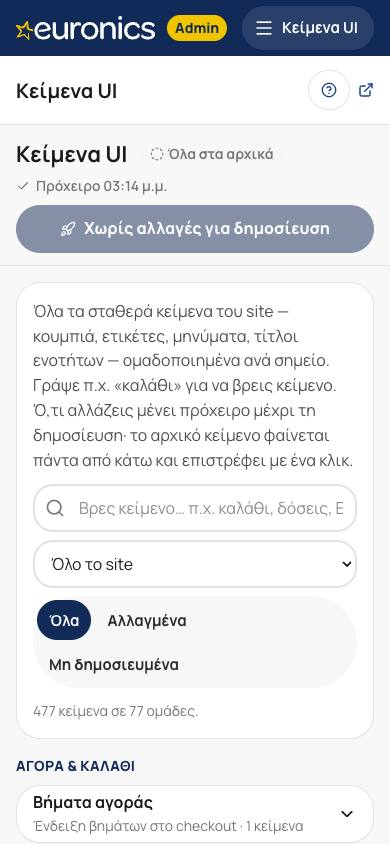
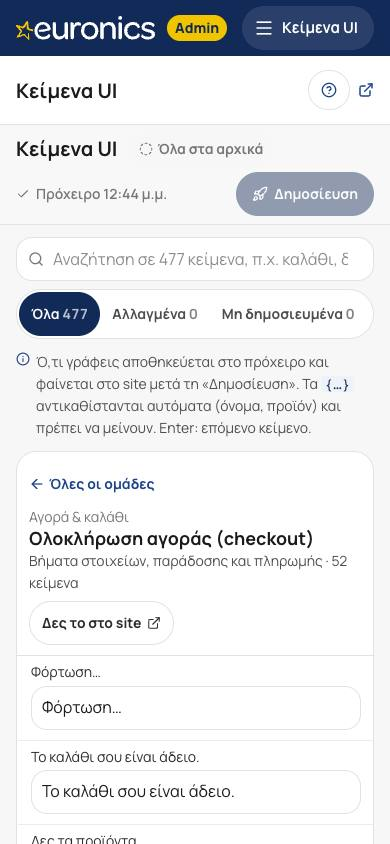
Κείμενα UI: νέος σχεδιασμός (ui-ux-pro-max) — αντί για 77 ακορντεόν σε μία στήλη (~5.800 px) και πεδία πλήρους πλάτους: ομάδες ανά σημείο του site αριστερά (φίλτρο, πλήθη, ένδειξη αλλαγών στο site/πρόχειρο) και πυκνός πίνακας δεξιά «Αρχικό | Στο site | Κατάσταση» με επεξεργασία επί τόπου, τονισμένα 

Changed region(s): [[0.0308, 0.154, 0.9538, 1.0], [0.8615, 0.6469, 0.9231, 0.6777], [0.8615, 0.5853, 0.9231, 0.6161]]

diff --git a/components/admin/cms/CopyEditor.tsx b/components/admin/cms/CopyEditor.tsx
@@ -1,11 +1,11 @@
 "use client";
 
-import { useCallback, useDeferredValue, useEffect, useMemo, useRef, useState, useTransition } from "react";
+import { Fragment, useCallback, useDeferredValue, useEffect, useMemo, useRef, useState, useTransition, type ReactNode } from "react";
 import { useRouter } from "next/navigation";
-import { Check, ChevronDown, CircleAlert, ExternalLink, Info, Loader2, Rocket, RotateCcw, Search, Undo2, X } from "lucide-react";
+import { ArrowLeft, Check, CircleAlert, ExternalLink, Info, Loader2, Rocket, RotateCcw, Search, Undo2, X } from "lucide-react";
 import { placeholdersOf, type CopyOverrides } from "@/lib/cms/copy";
 import { publishCopyAction, revertCopyAction, saveCopyAction, type CopyIssue } from "@/app/admin/(shell)/cms/copy/actions";
-import { ResultBanner, StatusPill, inputCls } from "@/components/admin/settings/ui";
+import { ResultBanner, StatusPill } from "@/components/admin/settings/ui";
 
 export type CopyGroup = { ns: string; label: string; area: string; where: string; href?: string; entries: { key: string; def: string }[] };
 
@@ -13,21 +13,25 @@ const norm = (s: string) => s.toLocaleLowerCase("el-GR").normalize("NFD").replac
 const count = (o: CopyOverrides) => Object.values(o).reduce((a, x) => a + Object.keys(x).length, 0);
 const same = (a: CopyOverrides, b: CopyOverrides) => { const k = (o: CopyOverrides) => Object.entries(o).flatMap(([ns, v]) => Object.entries(v).map(([key, val]) => `${ns}|${key}|${val}`)).sort().join("\n"); return k(a) === k(b); };
 type Filter = "all" | "changed" | "unpublished";
+const field = "w-full min-w-0 rounded-lg border border-eu-line bg-white px-2.5 min-h-11 md:min-h-9 text-[length:var(--fs-14)] outline-none focus:border-eu-blue focus-visible:ring-2 focus-visible:ring-eu-blue/20";
+/** «καλάθι {name}» → το {name} τονισμένο: φαίνεται τι αντικαθίσταται αυτόματα. */
+const withTokens = (s: string): ReactNode => s.split(/(\{[^}]+\})/g).map((p, i) => (/^\{[^}]+\}$/.test(p) ? <code key={i} className="rounded bg-eu-chip text-eu-navy px-1 text-[length:var(--fs-12)]">{p}</code> : <Fragment key={i}>{p}</Fragment>));
 
 /**
- * Κείμενα UI: όλα τα σταθερά κείμενα της βιτρίνας, ομαδοποιημένα ανά σημείο του site. Αναζήτηση σε κείμενο, όνομα ή
- * ομάδα· αλλαγή με αυτόματη αποθήκευση στο πρόχειρο· έλεγχος ότι μένουν τα {placeholders}· επαναφορά στο αρχικό·
- * δημοσίευση όλων μαζί. Αποθηκεύονται μόνο οι αλλαγμένες τιμές.
+ * Κείμενα UI (ui-ux-pro-max: master-detail, πυκνός πίνακας, επεξεργασία επί τόπου). Αριστερά οι ομάδες ανά σημείο του
+ * site με πλήθη και ένδειξη αλλαγών· δεξιά τα κείμενα της ομάδας σε δύο στήλες: το αρχικό (με τα {…} τονισμένα και το
+ * όνομα του κειμένου) και αυτό που βλέπει ο πελάτης, που αλλάζει επί τόπου. Η αναζήτηση ψάχνει σε όλα τα κείμενα.
+ * Αυτόματη αποθήκευση στο πρόχειρο, έλεγχος ότι μένουν τα {placeholders}, επαναφορά ανά κείμενο, δημοσίευση όλων μαζί.
  */
-export function CopyEditor({ groups, draft: initDraft, published: initPub, savedAt: initSaved }: { groups: CopyGroup[]; draft: CopyOverrides; published: CopyOverrides; savedAt: string | null }) {
+export function CopyEditor({ groups, draft: initDraft, published: initPub, savedAt: initSaved, initialGroup }: { groups: CopyGroup[]; draft: CopyOverrides; published: CopyOverrides; savedAt: string | null; initialGroup?: string | null }) {
   const router = useRouter();
   const [ov, setOv] = useState<CopyOverrides>(initDraft);
   const [pub, setPub] = useState<CopyOverrides>(initPub);
   const [q, setQ] = useState("");
   const dq = norm(useDeferredValue(q).trim());
   const [filter, setFilter] = useState<Filter>("all");
-  const [area, setArea] = useState("");
-  const [open, setOpen] = useState<Set<string>>(new Set());
+  const [nav, setNav] = useState("");
+  const [sel, setSel] = useState<string | null>(initialGroup && groups.some((g) => g.ns === initialGroup) ? initialGroup : null);
   const [save, setSave] = useState<"idle" | "pending" | "saving" | "error">("idle");
   const [savedAt, setSavedAt] = useState(initSaved);
   const [issues, setIssues] = useState<CopyIssue[]>([]);
@@ -35,7 +39,9 @@ export function CopyEditor({ groups, draft: initDraft, published: initPub, saved
   const [busy, start] = useTransition();
   const latest = useRef(ov);
   const saved = useRef(initDraft);
+  const listRef = useRef<HTMLDivElement>(null);
 
+  // αυτόματη αποθήκευση στο πρόχειρο (1″ μετά την τελευταία αλλαγή)
   const flush = useCallback(async () => {
     setSave("saving");
     const r = await saveCopyAction(latest.current).catch(() => null);
@@ -56,6 +62,8 @@ export function CopyEditor({ groups, draft: initDraft, published: initPub, saved
     window.addEventListener("beforeunload", h);
     return () => window.removeEventListener("beforeunload", h);
   }, [save]);
+  // η ομάδα στη διεύθυνση (?g=) — ο σύνδεσμος ανοίγει την ίδια ομάδα
+  useEffect(() => { const u = new URL(location.href); if (sel) u.searchParams.set("g", sel); else u.searchParams.delete("g"); history.replaceState(null, "", u); }, [sel]);
 
   const setVal = (ns: string, key: string, def: string, v: string) => setOv((o) => {
     const n = { ...o, [ns]: { ...(o[ns] ?? {}) } };
@@ -65,34 +73,44 @@ export function CopyEditor({ groups, draft: initDraft, published: initPub, saved
   });
   const pending = !same(ov, pub);
   const issueOf = (ns: string, key: string) => issues.find((i) => i.ns === ns && i.key === key)?.msg;
+  const badOf = (g: CopyGroup, e: { key: string; def: string }) => {
+    const cur = ov[g.ns]?.[e.key] ?? e.def, ph = placeholdersOf(e.def);
+    return issueOf(g.ns, e.key) ?? (ph.join(" ") !== placeholdersOf(cur).join(" ") ? `Πρέπει να περιέχει ακριβώς: ${ph.join(" ") || "κανένα {…}"}` : !cur.trim() ? "Κενό κείμενο: γράψε κάτι ή πάτα επαναφορά." : null);
+  };
+  const isChanged = (ns: string, key: string) => !!ov[ns] && key in ov[ns];
+  const isUnpub = (ns: string, key: string) => (ov[ns]?.[key] ?? null) !== (pub[ns]?.[key] ?? null);
 
-  /** Λάθη που φαίνονται ήδη στον browser (κενό, λάθος {…}) — μαζί με όσα επέστρεψε ο server. */
-  const badCount = useMemo(() => {
-    const local = groups.flatMap((g) => g.entries.filter((e) => {
-      const v = ov[g.ns]?.[e.key];
-      return v !== undefined && (!v.trim() || placeholdersOf(v).join(" ") !== placeholdersOf(e.def).join(" "));
-    }).map((e) => `${g.ns}.${e.key}`));
-    return new Set([...local, ...issues.map((i) => `${i.ns}.${i.key}`)]).size;
-  }, [groups, ov, issues]);
-  const anyPh = useMemo(() => groups.some((g) => g.entries.some((e) => placeholdersOf(e.def).length)), [groups]);
-  const areas = useMemo(() => [...new Set(groups.map((g) => g.area))], [groups]);
-  const view = useMemo(() => groups
-    .filter((g) => !area || g.area === area)
-    .map((g) => ({ ...g, entries: g.entries.filter((e) => {
-      const cur = ov[g.ns]?.[e.key] ?? e.def;
-      if (filter === "changed" && !(g.ns in ov && e.key in ov[g.ns])) return false;
-      if (filter === "unpublished" && (ov[g.ns]?.[e.key] ?? null) === (pub[g.ns]?.[e.key] ?? null)) return false;
-      if (!dq) return true;
-      return norm(`${cur} ${e.def} ${e.key} ${g.label} ${g.where}`).includes(dq);
-    }) }))
-    .filter((g) => g.entries.length), [groups, area, filter, dq, ov, pub]);
-  const total = view.reduce((a, g) => a + g.entries.length, 0);
-  const expanded = (ns: string) => open.has(ns) || !!dq || filter !== "all";
+  const badCount = useMemo(() => new Set([
+    ...groups.flatMap((g) => g.entries.filter((e) => { const v = ov[g.ns]?.[e.key]; return v !== undefined && (!v.trim() || placeholdersOf(v).join(" ") !== placeholdersOf(e.def).join(" ")); }).map((e) => `${g.ns}.${e.key}`)),
+    ...issues.map((i) => `${i.ns}.${i.key}`),
+  ]).size, [groups, ov, issues]);
+  const counts = useMemo(() => ({ all: groups.reduce((a, g) => a + g.entries.length, 0), changed: count(ov), unpublished: groups.reduce((a, g) => a + g.entries.filter((e) => isUnpub(g.ns, e.key)).length, 0) }), [groups, ov, pub]); // eslint-disable-line react-hooks/exhaustive-deps
+  const pass = useCallback((g: CopyGroup, e: { key: string; def: string }) => (filter === "changed" ? isChanged(g.ns, e.key) : filter === "unpublished" ? isUnpub(g.ns, e.key) : true), [filter, ov, pub]); // eslint-disable-line react-hooks/exhaustive-deps
+
+  // αριστερή στήλη: περιοχές → ομάδες (με το φίλτρο της λίστας ομάδων και το φίλτρο κατάστασης)
+  const navT = norm(nav.trim());
+  const areas = useMemo(() => {
+    const out: { area: string; groups: (CopyGroup & { shown: number; changed: number; unpub: number })[] }[] = [];
+    for (const g of groups) {
+      if (navT && !norm(`${g.label} ${g.where} ${g.area}`).includes(navT)) continue;
+      const shown = g.entries.filter((e) => pass(g, e)).length;
+      if (!shown) continue;
+      const changed = g.entries.filter((e) => isChanged(g.ns, e.key)).length, unpub = g.entries.filter((e) => isUnpub(g.ns, e.key)).length;
+      let a = out.find((x) => x.area === g.area); if (!a) { a = { area: g.area, groups: [] }; out.push(a); }
+      a.groups.push({ ...g, shown, changed, unpub });
+    }
+    return out;
+  }, [groups, navT, pass]); // eslint-disable-line react-hooks/exhaustive-deps
+  const current = sel ? groups.find((g) => g.ns === sel) ?? null : null;
+
+  // δεξιά: αναζήτηση σε όλα ή η επιλεγμένη ομάδα
+  const results = useMemo(() => dq ? groups.map((g) => ({ g, entries: g.entries.filter((e) => pass(g, e) && norm(`${ov[g.ns]?.[e.key] ?? e.def} ${e.def} ${e.key} ${g.label}`).includes(dq)) })).filter((x) => x.entries.length) : [], [dq, groups, ov, pass]);
+  const resultCount = results.reduce((a, x) => a + x.entries.length, 0);
 
   const publish = () => {
     if (!window.confirm(`Δημοσίευση ${count(ov)} αλλαγμένων κειμένων; Θα φαίνονται αμέσως στο site.`)) return;
     start(async () => {
-      if (save !== "idle" && !(await flush())) { setResult({ ok: false, message: "Η αποθήκευση απέτυχε — δοκίμασε ξανά." }); return; }
+      if (save !== "idle" && !(await flush())) { setResult({ ok: false, message: "Η αποθήκευση απέτυχε. Δοκίμασε ξανά." }); return; }
       const r = await publishCopyAction();
       setResult(r);
       if (r.issues) setIssues(r.issues);
@@ -100,91 +118,123 @@ export function CopyEditor({ groups, draft: initDraft, published: initPub, saved
     });
   };
   const revert = () => { if (!window.confirm("Να χαθούν οι αλλαγές που δεν δημοσιεύτηκαν;")) return; start(async () => { setResult(await revertCopyAction()); setOv(pub); saved.current = pub; }); };
+  /** Enter: πήγαινε στο επόμενο κείμενο (στα μεγάλα κείμενα: Ctrl/⌘ + Enter). */
+  const next = (el: HTMLElement) => { const all = [...(listRef.current?.querySelectorAll<HTMLElement>("[data-copy-input]") ?? [])]; all[all.indexOf(el) + 1]?.focus(); };
+
+  const row = (g: CopyGroup, e: { key: string; def: string }) => {
+    const cur = ov[g.ns]?.[e.key] ?? e.def;
+    const changed = cur !== e.def, unpub = isUnpub(g.ns, e.key), bad = badOf(g, e);
+    const long = e.def.length > 48 || cur.length > 48; // ό,τι δεν χωράει σε μία γραμμή γίνεται πολυγραμμικό, για να φαίνεται ολόκληρο
+    const common = {
+      value: cur, "data-copy-input": "", "aria-label": `${g.label}: ${e.def.slice(0, 50)}`, "aria-invalid": !!bad,
+      onChange: (ev: React.ChangeEvent<HTMLInputElement | HTMLTextAreaElement>) => setVal(g.ns, e.key, e.def, ev.target.value),
+      className: `${field} ${bad ? "border-eu-red bg-eu-red/5" : changed ? "border-eu-blue/50 bg-eu-blue/[0.04]" : ""}`,
+    };
+    return (
+      <li key={`${g.ns}.${e.key}`} className={`grid gap-x-3 gap-y-1 px-3 py-1.5 @3xl:grid-cols-[minmax(0,1fr)_minmax(0,1.25fr)_6.5rem] items-start ${changed ? "border-l-2 border-l-eu-blue" : "border-l-2 border-l-transparent"}`}>
+        <div className="grid gap-0.5 min-w-0 @3xl:pt-1.5">
+          <span title={`Κλειδί: ${g.ns}.${e.key}`} className="text-eu-ink-2 text-[length:var(--fs-13)] leading-snug break-words">{withTokens(e.def)}</span>
+        </div>
+        <div className="grid gap-1 min-w-0">
+          {long
+            ? <textarea {...common} rows={Math.min(6, Math.ceil(Math.max(e.def.length, cur.length) / 55))} onKeyDown={(ev) => { if (ev.key === "Enter" && (ev.metaKey || ev.ctrlKey)) { ev.preventDefault(); next(ev.currentTarget); } }} className={`${common.className} py-1.5 leading-relaxed resize-y`} />
+            : <input {...common} type="text" enterKeyHint="next" onKeyDown={(ev) => { if (ev.key === "Enter") { ev.preventDefault(); next(ev.currentTarget); } }} />}
+          {bad && <span role="alert" className="inline-flex items-start gap-1 text-eu-red font-semibold text-[length:var(--fs-12)]"><CircleAlert className="size-3.5 mt-px shrink-0" aria-hidden />{bad}</span>}
+        </div>
+        <div className="flex @3xl:flex-col @3xl:items-end items-center gap-1.5 @3xl:pt-1.5">
+          {changed ? <>
+            <span className={`rounded-full px-2 py-px font-bold text-[length:var(--fs-12)] ${unpub ? "bg-eu-amber/15 text-eu-ink-2" : "bg-eu-green/12 text-eu-green"}`}>{unpub ? "Πρόχειρο" : "Στο site"}</span>
+            <button type="button" onClick={() => setVal(g.ns, e.key, e.def, e.def)} aria-label={`Επαναφορά στο αρχικό: ${e.def.slice(0, 40)}`} className="inline-flex items-center gap-1 rounded-full px-2 min-h-11 md:min-h-7 font-bold text-eu-ink-3 text-[length:var(--fs-12)] hover:bg-eu-surface hover:text-eu-navy"><RotateCcw className="size-3.5" aria-hidden /> Αρχικό</button>
+          </> : unpub ? <span className="rounded-full px-2 py-px font-bold text-[length:var(--fs-12)] bg-eu-amber/15 text-eu-ink-2" title="Στο site είναι ακόμη αλλαγμένο· θα επιστρέψει στο αρχικό με τη δημοσίευση">Επαναφορά · πρόχειρο</span> : null}
+        </div>
+      </li>
+    );
+  };
+
+  const tableHead = <div className="hidden @3xl:grid grid-cols-[minmax(0,1fr)_minmax(0,1.25fr)_6.5rem] gap-x-3 px-3 py-1.5 bg-eu-surface/70 border-b border-eu-line text-eu-ink-3 font-bold text-[length:var(--fs-12)]"><span>Αρχικό κείμενο</span><span>Στο site</span><span className="text-right">Κατάσταση</span></div>;
 
   return (
-    <div className="grid gap-4 min-w-0">
-      <div className="sticky top-0 z-30 -mx-4 @md:-mx-6 -mt-4 @md:-mt-6 px-4 @md:px-6 py-3 bg-eu-surface/95 backdrop-blur border-b border-eu-line grid gap-2">
-        <div className="flex flex-wrap items-center gap-x-3 gap-y-1">
-          <h2 className="m-0 font-heading font-bold text-eu-ink text-[length:var(--fs-22)]">Κείμενα UI</h2>
-          <StatusPill status={pending ? "incomplete" : count(pub) ? "live" : "off"} text={pending ? "Αλλαγές στο πρόχειρο" : count(pub) ? `${count(pub)} αλλαγμένα κείμενα στο site` : "Όλα στα αρχικά"} />
-          <span role="status" className={`inline-flex items-center gap-1.5 text-[length:var(--fs-13)] font-semibold ${save === "error" ? "text-eu-red" : "text-eu-muted"}`}>{save === "saving" ? <Loader2 className="size-3.5 animate-spin" aria-hidden /> : save === "idle" ? <Check className="size-3.5" aria-hidden /> : null}{save === "saving" ? "Αποθήκευση…" : save === "pending" ? "Αλλαγές…" : save === "error" ? "Η αποθήκευση απέτυχε" : savedAt ? `Πρόχειρο ${new Date(savedAt).toLocaleTimeString("el-GR", { hour: "2-digit", minute: "2-digit" })}` : ""}</span>
+    <div className="@container grid gap-3 min-w-0">
+      {/* λεπτή σταθερή κεφαλίδα: κατάσταση, αποθήκευση, δημοσίευση */}
+      <div data-help="copy.header" className="sticky top-0 z-30 -mx-4 @md:-mx-6 -mt-4 @md:-mt-6 px-4 @md:px-6 py-2 bg-eu-surface/95 backdrop-blur border-b border-eu-line flex flex-wrap items-center gap-x-3 gap-y-2">
+        <h2 className="m-0 font-heading font-bold text-eu-ink text-[length:var(--fs-20)]">Κείμενα UI</h2>
+        <StatusPill status={pending ? "incomplete" : count(pub) ? "live" : "off"} text={pending ? `${counts.unpublished} ${counts.unpublished === 1 ? "αλλαγή" : "αλλαγές"} στο πρόχειρο` : count(pub) ? `${count(pub)} ${count(pub) === 1 ? "αλλαγμένο" : "αλλαγμένα"} στο site` : "Όλα στα αρχικά"} />
+        <span role="status" className={`inline-flex items-center gap-1.5 text-[length:var(--fs-12)] font-semibold ${save === "error" ? "text-eu-red" : "text-eu-muted"}`}>{save === "saving" ? <Loader2 className="size-3.5 animate-spin" aria-hidden /> : save === "idle" ? <Check className="size-3.5" aria-hidden /> : null}{save === "saving" ? "Αποθήκευση…" : save === "pending" ? "Αλλαγές…" : save === "error" ? "Η αποθήκευση απέτυχε" : savedAt ? `Πρόχειρο ${new Date(savedAt).toLocaleTimeString("el-GR", { hour: "2-digit", minute: "2-digit" })}` : ""}</span>
+        <div className="ml-auto flex flex-wrap items-center gap-1.5">
+          {badCount > 0 && <span className="inline-flex items-center gap-1 text-eu-red font-bold text-[length:var(--fs-13)]"><CircleAlert className="size-4" aria-hidden />{badCount} για διόρθωση</span>}
+          {pending && <button type="button" onClick={revert} disabled={busy} className="inline-flex items-center gap-1.5 rounded-full border border-eu-line bg-white px-3 min-h-11 md:min-h-9 font-bold text-[length:var(--fs-13)] hover:border-eu-navy"><Undo2 className="size-4" aria-hidden /> Ακύρωση</button>}
+          <button type="button" onClick={publish} disabled={busy || !pending || badCount > 0} className="inline-flex items-center gap-1.5 rounded-full bg-eu-navy text-white font-bold text-[length:var(--fs-13)] px-4 min-h-11 md:min-h-9 hover:bg-eu-blue disabled:opacity-45">{busy ? <Loader2 className="size-4 animate-spin" aria-hidden /> : <Rocket className="size-4" aria-hidden />}{badCount ? "Διόρθωσε πρώτα" : pending ? `Δημοσίευση (${counts.unpublished})` : "Δημοσίευση"}</button>
         </div>
-        <div className="flex flex-wrap items-center gap-2">
-          <button type="button" onClick={publish} disabled={busy || !pending || badCount > 0} className="inline-flex items-center justify-center gap-2 rounded-full bg-eu-navy text-white font-extrabold text-[length:var(--fs-15)] px-5 min-h-12 hover:bg-eu-blue disabled:opacity-50 flex-1 @md:flex-none">{busy ? <Loader2 className="size-4 animate-spin" aria-hidden /> : <Rocket className="size-4" aria-hidden />}{!pending ? "Χωρίς αλλαγές για δημοσίευση" : badCount ? "Διόρθωσε πρώτα τα σημειωμένα" : "Δημοσίευση αλλαγών"}</button>
-          {pending && <button type="button" onClick={revert} disabled={busy} className="inline-flex items-center gap-1.5 rounded-full border-2 border-eu-line px-4 min-h-12 font-bold text-[length:var(--fs-14)] hover:border-eu-navy"><Undo2 className="size-4" aria-hidden /> Ακύρωση αλλαγών</button>}
-          {badCount > 0 && <span className="inline-flex items-center gap-1.5 text-eu-red font-bold text-[length:var(--fs-14)]"><CircleAlert className="size-4" aria-hidden />{badCount} για διόρθωση</span>}
-        </div>
-        {result && <div className="relative"><ResultBanner ok={result.ok}><span className="block pr-8">{result.message}</span></ResultBanner><button type="button" onClick={() => setResult(null)} aria-label="Κλείσιμο" className="absolute top-1 right-1 size-10 grid place-items-center rounded-full text-eu-muted hover:bg-white/60"><X className="size-4" aria-hidden /></button></div>}
+        {result && <div className="basis-full relative"><ResultBanner ok={result.ok}><span className="block pr-8">{result.message}</span></ResultBanner><button type="button" onClick={() => setResult(null)} aria-label="Κλείσιμο" className="absolute top-1 right-1 size-10 grid place-items-center rounded-full text-eu-muted hover:bg-white/60"><X className="size-4" aria-hidden /></button></div>}
       </div>
 
-      <section className="rounded-2xl bg-white border border-eu-line p-4 @md:p-5 grid gap-3">
-        <p className="m-0 text-eu-ink-3 text-[length:var(--fs-15)] max-w-[80ch]">Όλα τα σταθερά κείμενα του site — κουμπιά, ετικέτες, μηνύματα, τίτλοι ενοτήτων — ομαδοποιημένα ανά σημείο. Γράψε π.χ. «καλάθι» για να βρεις κείμενο. Ό,τι αλλάζεις μένει πρόχειρο μέχρι τη δημοσίευση· το αρχικό κείμενο φαίνεται πάντα από κάτω και επιστρέφει με ένα κλικ.</p>
-        {anyPh && <p className="m-0 inline-flex items-start gap-2 text-eu-ink-2 text-[length:var(--fs-14)]"><Info className="size-4 mt-0.5 shrink-0 text-eu-blue" aria-hidden /><span>Λέξεις μέσα σε άγκιστρα, όπως <code className="rounded bg-eu-surface px-1">{"{name}"}</code>, αντικαθίστανται αυτόματα (όνομα πελάτη, προϊόν…) — πρέπει να μείνουν στο κείμενο.</span></p>}
-        <div className="grid @3xl:grid-cols-[minmax(0,1fr)_auto_auto] gap-2 items-end">
-          <label className="relative block min-w-0">
-            <span className="sr-only">Αναζήτηση κειμένου</span>
-            <Search className="size-5 absolute left-3 top-1/2 -translate-y-1/2 text-eu-muted pointer-events-none" aria-hidden />
-            <input type="text" enterKeyHint="search" value={q} onChange={(e) => setQ(e.target.value)} placeholder="Βρες κείμενο… π.χ. καλάθι, δόσεις, Ερμής" className={`${inputCls} rounded-full pl-11`} />
-          </label>
-          <select value={area} onChange={(e) => setArea(e.target.value)} aria-label="Σημείο του site" className={`${inputCls} rounded-full`}><option value="">Όλο το site</option>{areas.map((a) => <option key={a} value={a}>{a}</option>)}</select>
-          <div className="flex flex-wrap gap-1 rounded-full bg-eu-surface p-1" role="radiogroup" aria-label="Φίλτρο">
-            {([["all", "Όλα"], ["changed", "Αλλαγμένα"], ["unpublished", "Μη δημοσιευμένα"]] as const).map(([v, l]) => <button key={v} type="button" role="radio" aria-checked={filter === v} onClick={() => setFilter(v)} className={`rounded-full px-3 min-h-10 font-bold text-[length:var(--fs-14)] ${filter === v ? "bg-eu-navy text-white" : "text-eu-ink-2"}`}>{l}</button>)}
-          </div>
+      {/* αναζήτηση σε όλα + φίλτρο κατάστασης */}
+      <div data-help="copy.search" className="grid gap-2 @2xl:flex @2xl:items-center">
+        <label className="relative flex-1 min-w-0"><span className="sr-only">Αναζήτηση σε όλα τα κείμενα</span><Search className="absolute left-3 top-1/2 -translate-y-1/2 size-4 text-eu-muted pointer-events-none" aria-hidden /><input type="search" enterKeyHint="search" value={q} onChange={(e) => setQ(e.target.value)} placeholder={`Αναζήτηση σε ${counts.all} κείμενα, π.χ. καλάθι, δόσεις, Ερμής`} className={`${field} pl-9 rounded-full`} /></label>
+        <div role="radiogroup" aria-label="Ποια κείμενα" className="inline-flex rounded-full bg-white border border-eu-line p-0.5 shrink-0">
+          {([["all", "Όλα", counts.all], ["changed", "Αλλαγμένα", counts.changed], ["unpublished", "Μη δημοσιευμένα", counts.unpublished]] as const).map(([v, l, n]) => <button key={v} type="button" role="radio" aria-checked={filter === v} onClick={() => setFilter(v)} className={`rounded-full px-3 min-h-11 md:min-h-8 font-bold text-[length:var(--fs-12)] ${filter === v ? "bg-eu-navy text-white" : "text-eu-ink-3 hover:text-eu-navy"}`}>{l} <span className="tabular-nums opacity-70">{n}</span></button>)}
         </div>
-        <span className="text-eu-muted text-[length:var(--fs-13)]">{total} κείμενα σε {view.length} ομάδες{dq ? ` για «${q}»` : ""}.</span>
-      </section>
+      </div>
+      <p className="m-0 inline-flex items-start gap-1.5 text-eu-ink-3 text-[length:var(--fs-12)]"><Info className="size-3.5 mt-px shrink-0 text-eu-blue" aria-hidden /><span>Ό,τι γράφεις αποθηκεύεται στο πρόχειρο και φαίνεται στο site μετά τη «Δημοσίευση». Τα <code className="rounded bg-eu-chip text-eu-navy px-1">{"{…}"}</code> αντικαθίστανται αυτόματα (όνομα, προϊόν) και πρέπει να μείνουν. Enter: επόμενο κείμενο.</span></p>
 
-      {areas.filter((a) => view.some((g) => g.area === a)).map((a) => (
-        <section key={a} className="grid gap-2" aria-label={a}>
-          <h3 className="m-0 font-extrabold text-eu-navy text-[length:var(--fs-13)] uppercase tracking-wide">{a}</h3>
-          {view.filter((g) => g.area === a).map((g) => {
-            const isOpen = expanded(g.ns);
-            const changed = Object.keys(ov[g.ns] ?? {}).length;
-            return (
-              <div key={g.ns} className="rounded-2xl bg-white border border-eu-line min-w-0">
-                <button type="button" onClick={() => setOpen((o) => { const n = new Set(o); if (n.has(g.ns)) n.delete(g.ns); else n.add(g.ns); return n; })} aria-expanded={isOpen} className="w-full flex items-center gap-3 px-4 min-h-14 text-left">
-                  <span className="grid min-w-0 flex-1"><span className="font-bold text-eu-ink text-[length:var(--fs-16)]">{g.label}</span><span className="text-eu-muted text-[length:var(--fs-13)]">{g.where} · {g.entries.length} κείμενα{changed ? ` · ${changed} αλλαγμένα` : ""}</span></span>
-                  <ChevronDown className={`size-5 shrink-0 transition-transform ${isOpen ? "rotate-180" : ""}`} aria-hidden />
-                </button>
-                {isOpen && (
-                  <div className="border-t border-eu-line p-3 @md:p-4 grid gap-4">
-                    {g.href && <a href={g.href} target="_blank" rel="noopener noreferrer" className="justify-self-start inline-flex items-center gap-1.5 text-eu-blue font-bold text-[length:var(--fs-14)] min-h-10 hover:underline">Δες το στο site <ExternalLink className="size-4" aria-hidden /></a>}
-                    {g.entries.map((e) => {
-                      const cur = ov[g.ns]?.[e.key] ?? e.def;
-                      const isChanged = cur !== e.def;
-                      const live = (pub[g.ns]?.[e.key] ?? e.def) === cur;
-                      const ph = placeholdersOf(e.def);
-                      const bad = issueOf(g.ns, e.key) ?? (ph.join(" ") !== placeholdersOf(cur).join(" ") ? `Πρέπει να περιέχει: ${ph.join(" ") || "κανένα {…}"}` : !cur.trim() ? "Κενό κείμενο" : null);
-                      const long = e.def.length > 70;
-                      return (
-                        <div key={e.key} className="grid gap-1 min-w-0">
-                          <div className="flex flex-wrap items-center gap-2">
-                            {isChanged ? <span className={`rounded-full px-2 py-0.5 text-[length:var(--fs-13)] font-bold ${live ? "bg-eu-green/10 text-eu-green" : "bg-eu-amber/15 text-eu-amber"}`}>{live ? "Αλλαγμένο · στο site" : "Αλλαγμένο · πρόχειρο"}</span> : null}
-                            {ph.map((p) => <code key={p} className="rounded bg-eu-chip text-eu-navy px-1.5 text-[length:var(--fs-13)]">{p}</code>)}
-                          </div>
-                          {long ? (
-                            <textarea value={cur} onChange={(ev) => setVal(g.ns, e.key, e.def, ev.target.value)} rows={Math.min(5, Math.ceil(e.def.length / 70) + 1)} aria-label={`${g.label}: ${e.def.slice(0, 40)}`} aria-invalid={!!bad} className={`${inputCls} py-2 leading-relaxed ${bad ? "border-eu-red" : isChanged ? "border-eu-blue" : ""}`} />
-                          ) : (
-                            <input value={cur} onChange={(ev) => setVal(g.ns, e.key, e.def, ev.target.value)} aria-label={`${g.label}: ${e.def.slice(0, 40)}`} aria-invalid={!!bad} className={`${inputCls} ${bad ? "border-eu-red" : isChanged ? "border-eu-blue" : ""}`} />
-                          )}
-                          {bad && <span role="alert" className="text-eu-red font-bold text-[length:var(--fs-13)]">{bad}</span>}
-                          {isChanged && (
-                            <span className="flex flex-wrap items-center gap-2 text-eu-muted text-[length:var(--fs-13)]">
-                              <span className="min-w-0">Αρχικό: «{e.def}»</span>
-                              <button type="button" onClick={() => setVal(g.ns, e.key, e.def, e.def)} className="inline-flex items-center gap-1 rounded-full border border-eu-line px-2.5 min-h-9 font-bold text-eu-ink-2 hover:border-eu-navy"><RotateCcw className="size-3.5" aria-hidden /> Επαναφορά</button>
-                            </span>
-                          )}
-                        </div>
-                      );
-                    })}
-                  </div>
-                )}
+      <div className="grid gap-3 @4xl:grid-cols-[17rem_minmax(0,1fr)] items-start">
+        {/* ομάδες */}
+        <aside data-help="copy.groups" aria-label="Ομάδες κειμένων" className={`${sel || dq ? "hidden @4xl:grid" : "grid"} grid-rows-[auto_minmax(0,1fr)] rounded-xl border border-eu-line bg-white overflow-hidden @4xl:sticky @4xl:top-16 @4xl:h-[calc(100dvh-10rem)]`}>
+          <div className="p-2 border-b border-eu-line"><label className="relative block"><span className="sr-only">Φίλτρο ομάδων</span><Search className="absolute left-2.5 top-1/2 -translate-y-1/2 size-4 text-eu-muted" aria-hidden /><input type="search" value={nav} onChange={(e) => setNav(e.target.value)} placeholder={`${groups.length} ομάδες`} className={`${field} pl-8`} /></label></div>
+          <nav className="overflow-y-auto overscroll-contain">
+            {areas.length ? areas.map((a) => (
+              <section key={a.area} aria-label={a.area}>
+                <h3 className="sticky top-0 z-[1] m-0 bg-eu-surface/95 backdrop-blur px-3 py-1 font-bold text-eu-ink-3 text-[length:var(--fs-12)]">{a.area}</h3>
+                <ul className="m-0 p-1 list-none grid">
+                  {a.groups.map((g) => { const on = g.ns === sel && !dq; return (
+                    <li key={g.ns}><button type="button" onClick={() => { setSel(g.ns); setQ(""); listRef.current?.scrollIntoView({ block: "start" }); }} aria-current={on ? "true" : undefined} className={`w-full grid grid-cols-[minmax(0,1fr)_auto] items-center gap-x-2 rounded-lg px-2.5 min-h-11 text-left ${on ? "bg-eu-navy text-white" : "hover:bg-eu-surface"}`}>
+                      <span className="grid min-w-0"><span className={`truncate font-semibold text-[length:var(--fs-13)] ${on ? "" : "text-eu-ink"}`}>{g.label}</span>{g.changed > 0 && <span className={`text-[length:var(--fs-12)] ${on ? "text-white/80" : g.unpub ? "text-eu-amber font-semibold" : "text-eu-green font-semibold"}`}>{g.changed} αλλαγμένα{g.unpub ? " · πρόχειρο" : ""}</span>}</span>
+                      <span className={`tabular-nums text-[length:var(--fs-12)] ${on ? "text-white/80" : "text-eu-muted"}`}>{filter === "all" ? g.entries.length : g.shown}</span>
+                    </button></li>
+                  ); })}
+                </ul>
+              </section>
+            )) : <p className="m-0 p-4 text-eu-muted text-[length:var(--fs-13)]">Καμία ομάδα.</p>}
+          </nav>
+        </aside>
+
+        {/* κείμενα */}
+        <div ref={listRef} data-help="copy.table" className={`${!sel && !dq ? "hidden @4xl:grid" : "grid"} gap-2 min-w-0 scroll-mt-20`}>
+          {dq ? (
+            <section aria-label="Αποτελέσματα αναζήτησης" className="rounded-xl border border-eu-line bg-white overflow-hidden">
+              <div className="flex flex-wrap items-center justify-between gap-2 px-3 py-2 border-b border-eu-line"><b className="text-eu-ink text-[length:var(--fs-14)]">{resultCount} {resultCount === 1 ? "κείμενο" : "κείμενα"} για «{q}»</b><button type="button" onClick={() => setQ("")} className="inline-flex items-center gap-1 rounded-full px-2.5 min-h-11 md:min-h-8 font-bold text-eu-ink-3 text-[length:var(--fs-12)] hover:bg-eu-surface"><X className="size-3.5" aria-hidden /> Καθαρισμός</button></div>
+              {tableHead}
+              {results.length ? results.map(({ g, entries }) => (
+                <div key={g.ns}>
+                  <h4 className="m-0 px-3 pt-2 pb-1 font-bold text-eu-navy text-[length:var(--fs-12)]">{g.area} › {g.label}</h4>
+                  <ul className="m-0 p-0 list-none divide-y divide-eu-line-2">{entries.map((e) => row(g, e))}</ul>
+                </div>
+              )) : <p className="m-0 p-6 text-center text-eu-muted text-[length:var(--fs-13)]">Κανένα κείμενο για «{q}». Δοκίμασε άλλη λέξη ή το φίλτρο «Όλα».</p>}
+            </section>
+          ) : current ? (
+            <section aria-labelledby="cg-h" className="rounded-xl border border-eu-line bg-white overflow-hidden">
+              <div className="flex flex-wrap items-start justify-between gap-2 px-3 py-2.5 border-b border-eu-line">
+                <div className="grid min-w-0">
+                  <button type="button" onClick={() => setSel(null)} className="@4xl:hidden justify-self-start inline-flex items-center gap-1 min-h-11 font-bold text-eu-blue text-[length:var(--fs-13)]"><ArrowLeft className="size-4" aria-hidden /> Όλες οι ομάδες</button>
+                  <span className="text-eu-muted text-[length:var(--fs-12)]">{current.area}</span>
+                  <h3 id="cg-h" className="m-0 font-heading font-bold text-eu-ink text-[length:var(--fs-18)] leading-tight">{current.label}</h3>
+                  <span className="text-eu-ink-3 text-[length:var(--fs-12)]">{current.where} · {current.entries.length} κείμενα</span>
+                </div>
+                {current.href && <a href={current.href} target="_blank" rel="noopener noreferrer" className="inline-flex items-center gap-1.5 rounded-full border border-eu-line px-3 min-h-11 md:min-h-9 font-bold text-eu-ink-2 text-[length:var(--fs-13)] hover:border-eu-navy">Δες το στο site <ExternalLink className="size-3.5" aria-hidden /></a>}
               </div>
-            );
-          })}
-        </section>
-      ))}
-      {!view.length && <p className="m-0 rounded-2xl bg-white border border-eu-line p-6 text-eu-muted">Κανένα κείμενο {dq ? `για «${q}»` : "με αυτό το φίλτρο"}.</p>}
+              {tableHead}
+              {(() => { const list = current.entries.filter((e) => pass(current, e)); return list.length
+                ? <ul className="m-0 p-0 list-none divide-y divide-eu-line-2">{list.map((e) => row(current, e))}</ul>
+                : <p className="m-0 p-6 text-center text-eu-muted text-[length:var(--fs-13)]">Κανένα κείμενο με αυτό το φίλτρο σε αυτή την ομάδα.</p>; })()}
+            </section>
+          ) : (
+            <div className="grid place-items-center gap-1 rounded-xl border border-dashed border-eu-line bg-white p-10 text-center">
+              <p className="m-0 font-bold text-eu-ink-2 text-[length:var(--fs-14)]">Διάλεξε ομάδα ή ψάξε ένα κείμενο</p>
+              <p className="m-0 text-eu-muted text-[length:var(--fs-13)]">{counts.all} κείμενα σε {groups.length} ομάδες.</p>
+            </div>
+          )}
+        </div>
+      </div>
     </div>
   );
 }

diff --git a/lib/help/content/index.ts b/lib/help/content/index.ts
@@ -232,6 +232,25 @@ export const HELP_PAGES: HelpPage[] = [
     keywords: ["προϊόντα", "φωτογραφίες", "ποιότητα", "στήλες", "πηγή"],
   },
   {
+    route: "/admin/cms/copy",
+    title: "Κείμενα UI",
+    summary: "Όλα τα σταθερά κείμενα της βιτρίνας (κουμπιά, ετικέτες, μηνύματα, τίτλοι ενοτήτων), σε ομάδες ανά σημείο του site. Αλλάζουν επί τόπου, αποθηκεύονται μόνα τους στο πρόχειρο και φαίνονται στους πελάτες μετά τη «Δημοσίευση».",
+    parts: [
+      { key: "copy.header", title: "Κατάσταση & δημοσίευση", text: "Πόσες αλλαγές είναι στο πρόχειρο ή ήδη στο site, πότε αποθηκεύτηκε το πρόχειρο, «Δημοσίευση (N)» και «Ακύρωση» (το πρόχειρο επιστρέφει στα δημοσιευμένα). Η δημοσίευση κλειδώνει όσο υπάρχουν κείμενα για διόρθωση." },
+      { key: "copy.search", title: "Αναζήτηση & φίλτρο", text: "Η αναζήτηση ψάχνει σε όλα τα κείμενα (τρέχον και αρχικό) και δείχνει από ποια ομάδα είναι το καθένα. Φίλτρο: Όλα / Αλλαγμένα / Μη δημοσιευμένα, με πλήθη." },
+      { key: "copy.groups", title: "Ομάδες", text: "Οι ομάδες ανά σημείο του site (Αγορά & καλάθι, Σελίδα προϊόντος, Λογαριασμός…), με πλήθος κειμένων και ένδειξη αλλαγών (πράσινο = στο site, πορτοκαλί = πρόχειρο). Η ομάδα που ανοίγεις μπαίνει στη διεύθυνση (?g=), άρα στέλνεις σύνδεσμο." },
+      { key: "copy.table", title: "Κείμενα", text: "Δύο στήλες: το αρχικό κείμενο (με τα {…} τονισμένα) και αυτό που βλέπει ο πελάτης, που αλλάζει επί τόπου. Enter = επόμενο κείμενο (στα μεγάλα Ctrl/⌘ + Enter). Δεξιά: «Πρόχειρο» ή «Στο site» και «Αρχικό» για επαναφορά. «Δες το στο site» ανοίγει τη σελίδα όπου φαίνεται η ομάδα." },
+    ],
+    tasks: [
+      { title: "Αλλάζω ένα κείμενο του site", steps: ["Ψάξε το κείμενο (π.χ. «καλάθι») ή διάλεξε την ομάδα αριστερά.", "Γράψε το νέο κείμενο στη στήλη «Στο site». Αποθηκεύεται μόνο του στο πρόχειρο.", "«Δημοσίευση (N)»: φαίνεται στους πελάτες σε λίγα δευτερόλεπτα."] },
+      { title: "Βλέπω τι άλλαξε πριν τη δημοσίευση", steps: ["Φίλτρο «Μη δημοσιευμένα».", "Έλεγξε κάθε κείμενο· «Αρχικό» για επαναφορά όπου χρειάζεται.", "«Δημοσίευση» ή «Ακύρωση» για όλες μαζί."] },
+    ],
+    tips: ["Τα {name}, {price} κ.λπ. αντικαθίστανται αυτόματα με όνομα, προϊόν ή τιμή: πρέπει να μείνουν ίδια στο κείμενο, αλλιώς η γραμμή σημειώνεται κόκκινη και η δημοσίευση περιμένει.", "Αποθηκεύονται μόνο τα κείμενα που διαφέρουν από το αρχικό· «Αρχικό» σε μια γραμμή τη γυρίζει πίσω."],
+    related: [{ label: "Ζώνες αρχικής", href: "/admin/cms/home" }],
+    files: ["components/admin/cms/CopyEditor.tsx", "lib/cms/copy-meta.ts", "lib/cms/copy-store.ts"],
+    keywords: ["κείμενα", "copy", "μεταφράσεις", "κουμπιά", "μηνύματα", "δημοσίευση"],
+  },
+  {
     route: "/admin/catalog/templates",
     title: "Templates & εισαγωγή excel",
     summary: "Πακέτα excel προς τους προμηθευτές (ανά μάρκα, ένα φύλλο ανά κατηγορία με τα χαρακτηριστικά της όπως στο SoftOne), με Word «Οδηγίες συμπλήρωσης», και εισαγωγή των συμπληρωμένων αρχείων με έλεγχο πριν την εφαρμογή.",

diff --git a/scripts/help-shots.ts b/scripts/help-shots.ts
@@ -23,7 +23,7 @@ const SKIP = new Set(["/admin/help", "/admin/forbidden"]);
 /** σελίδες με προσωπικά δεδομένα πελατών/προσωπικού: ΠΟΤΕ σε εικόνα (GDPR) */
 const PII = new Set(["/admin/customers", "/admin/customers/import", "/admin/gdpr", "/admin/staff", "/admin/audit", "/admin/newsletter", "/admin/softone/customers", "/admin/prosfores/anafores", "/admin/prosfores/kouponia", "/admin/reports/wishlist"]);
 /** σελίδες που δείχνουν περισσότερα με ανοιχτή μια εγγραφή (π.χ. Χαρακτηριστικά: ένας τύπος προϊόντος, όχι κενό δεξί μέρος) */
-const SHOT_QUERY: Record<string, string> = { "/admin/catalog/specs": "?g=944" };
+const SHOT_QUERY: Record<string, string> = { "/admin/catalog/specs": "?g=944", "/admin/cms/copy": "?g=checkout" };
 const only = process.argv.slice(2).filter((a) => a.startsWith("/admin"));
 const routes = (generated as unknown as Generated).routes.filter((r) => !r.dynamic && !SKIP.has(r.route) && !PII.has(r.route) && (!only.length || only.includes(r.route)));
 

diff --git a/app/admin/(shell)/cms/copy/page.tsx b/app/admin/(shell)/cms/copy/page.tsx
@@ -7,10 +7,10 @@ import { CopyEditor, type CopyGroup } from "@/components/admin/cms/CopyEditor";
 export const metadata = { title: "Κείμενα UI" };
 export const dynamic = "force-dynamic";
 
-export default async function CopyPage() {
+export default async function CopyPage({ searchParams }: { searchParams: Promise<{ g?: string }> }) {
   await requirePermission("cms.copy.write");
   const defs = defaultCopy();
-  const doc = await getCopyDoc();
+  const [doc, { g }] = await Promise.all([getCopyDoc(), searchParams]);
   const groups: CopyGroup[] = Object.entries(defs).map(([ns, keys]) => ({ ns, ...metaOf(ns), entries: Object.entries(keys).map(([key, def]) => ({ key, def })) })).sort((a, b) => a.area.localeCompare(b.area, "el") || a.label.localeCompare(b.label, "el"));
-  return <CopyEditor groups={groups} draft={doc.draft} published={doc.published} savedAt={doc.updatedAt?.toISOString() ?? null} />;
+  return <CopyEditor groups={groups} draft={doc.draft} published={doc.published} savedAt={doc.updatedAt?.toISOString() ?? null} initialGroup={g ?? null} />;
 }
